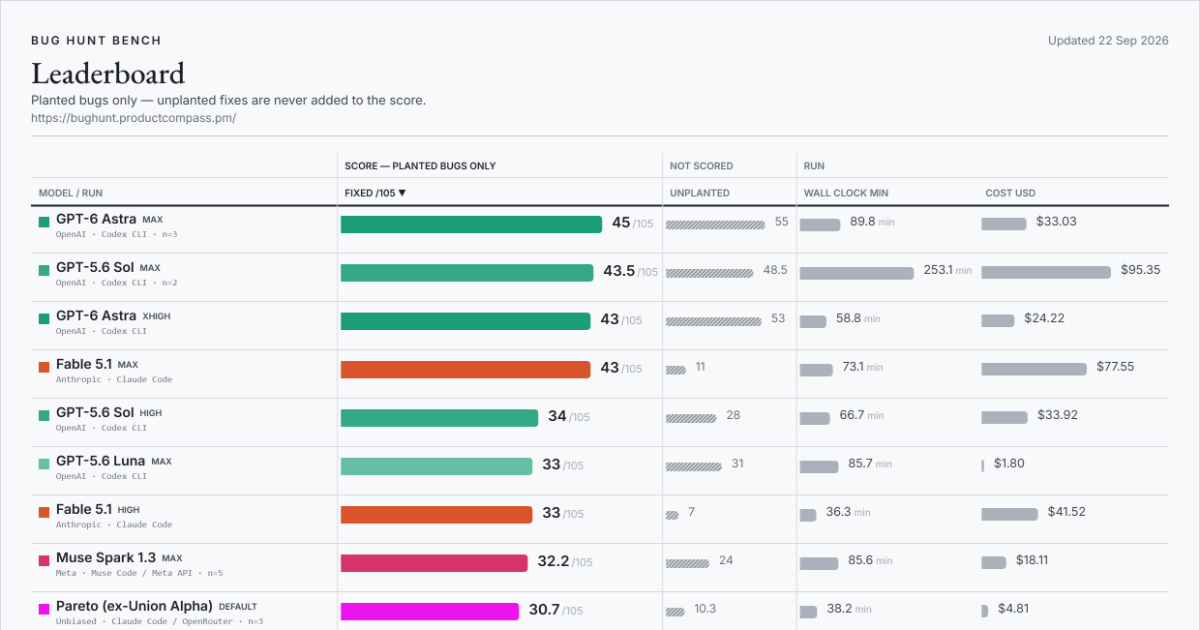
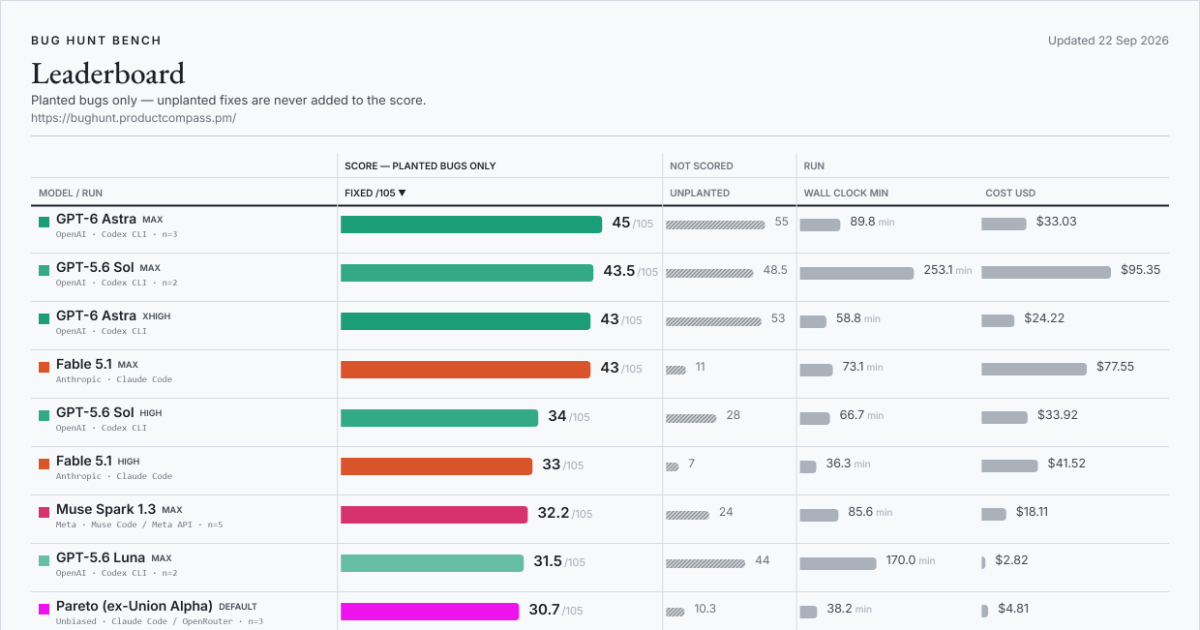
bug hunt bench: GPT-5.6 Luna (max effort) - mean of 2 (31.5/105)

diff --git a/index.html b/index.html
@@ -22,14 +22,14 @@
 <meta property="og:title" content="Bug Hunt Bench — frontier coding models against real planted bugs">
 <meta property="og:description" content="A blind-graded benchmark of frontier coding models on real bugs planted in two production codebases. The score counts planted bugs only; extra fixes are tracked separately and never added.">
 <meta property="og:url" content="https://bughunt.productcompass.pm/">
-<meta property="og:image" content="https://bughunt.productcompass.pm/og-image.png?v=2026-09-22-f903b8d2">
+<meta property="og:image" content="https://bughunt.productcompass.pm/og-image.png?v=2026-09-22-99951fce">
 <meta property="og:image:width" content="1200">
 <meta property="og:image:height" content="630">
 <meta property="og:image:alt" content="Bug Hunt Bench leaderboard">
 <meta name="twitter:card" content="summary_large_image">
 <meta name="twitter:title" content="Bug Hunt Bench — frontier coding models against real planted bugs">
 <meta name="twitter:description" content="A blind-graded benchmark of frontier coding models on real bugs planted in two production codebases. The score counts planted bugs only.">
-<meta name="twitter:image" content="https://bughunt.productcompass.pm/og-image.png?v=2026-09-22-f903b8d2">
+<meta name="twitter:image" content="https://bughunt.productcompass.pm/og-image.png?v=2026-09-22-99951fce">
 <meta name="twitter:creator" content="@PawelHuryn">
 
 <link rel="icon" href="/assets/favicon.svg" type="image/svg+xml">

diff --git a/method.html b/method.html
@@ -20,14 +20,14 @@
 <meta property="og:title" content="Method, caveats and definitions — Bug Hunt Bench">
 <meta property="og:description" content="How Bug Hunt Bench is run and graded, what the board cannot tell you, and what every column on it means.">
 <meta property="og:url" content="https://bughunt.productcompass.pm/method">
-<meta property="og:image" content="https://bughunt.productcompass.pm/og-image.png?v=2026-09-22-f903b8d2">
+<meta property="og:image" content="https://bughunt.productcompass.pm/og-image.png?v=2026-09-22-99951fce">
 <meta property="og:image:width" content="1200">
 <meta property="og:image:height" content="630">
 <meta property="og:image:alt" content="Bug Hunt Bench leaderboard">
 <meta name="twitter:card" content="summary_large_image">
 <meta name="twitter:title" content="Method, caveats and definitions — Bug Hunt Bench">
 <meta name="twitter:description" content="How Bug Hunt Bench is run and graded, what the board cannot tell you, and what every column on it means.">
-<meta name="twitter:image" content="https://bughunt.productcompass.pm/og-image.png?v=2026-09-22-f903b8d2">
+<meta name="twitter:image" content="https://bughunt.productcompass.pm/og-image.png?v=2026-09-22-99951fce">
 <meta name="twitter:creator" content="@PawelHuryn">
 
 <link rel="icon" href="/assets/favicon.svg" type="image/svg+xml">

diff --git a/results/run-notes.md b/results/run-notes.md
@@ -2,7 +2,7 @@
 
 Every row on the board, with the note and caveat it carries. Generated from `data/benchmark.json` by `bench_golive.py` - do not edit by hand.
 
-Updated Sep 22, 2026 · 109 rows from 157 scored runs. Superseded rows are listed last.
+Updated Sep 22, 2026 · 110 rows from 159 scored runs. Superseded rows are listed last.
 
 ## GPT-6 Astra (max effort) - mean of 3
 
@@ -46,10 +46,6 @@ Second only to Sol max (42) on the board; the Sol dial runs high 34 -> xhigh 39 
 
 **34 / 105** · repo 1 13/45 · repo 2 21/60 · 28 unplanted · 66.7 min · $33.92 · `high` · Codex CLI · single run · 2026-07-31
 
-## GPT-5.6 Luna (max effort)
-
-**33 / 105** · repo 1 17/45 · repo 2 16/60 · 31 unplanted · 85.7 min · $1.80 · `max` · Codex CLI · single run · 2026-07-31
-
 ## Fable 5.1
 
 **33 / 105** · repo 1 15/45 · repo 2 18/60 · 7 unplanted · 36.3 min · $41.52 · `high` · Claude Code · single run · 2026-09-01
@@ -67,6 +63,14 @@ THE DEEPEST REPLICATION ON THIS BOARD: FIVE RUNS OF ONE CONFIGURATION. Runs scor
 **32 / 105** · repo 1 16/45 · repo 2 16/60 · 45 unplanted · 159.7 min · $27.98 · `max` · Codex CLI · single run · 2026-08-27
 
 The $2/Mtok mid tier at max: 32/105, just below Luna max (33) and above Grok xhigh / Opus max (27) at a fraction of Sol's cost. 45 genuine unplanted extras, the bug-max signature.
+
+## GPT-5.6 Luna (max effort) - mean of 2
+
+**31.5 / 105** · repo 1 16.5/45 · repo 2 15/60 · 44 unplanted · 170.0 min · $2.82 · `max` · Codex CLI · mean of 2 runs · 2026-09-22
+
+**Caveat.** Two runs of an identical configuration scoring 33 and 30 of 105 - n=2, not the n=3 originally planned, because a third replicate's judging failed on a Grok bridge initialization error unrelated to Luna. Cost is a TOKEN ESTIMATE at list rates, not a bill, and is comparable only to other list-priced rows. Runs shared the laptop with benchmark legs from other vendors, so wall figures are contended and biased upward; scores and cost are unaffected.
+
+GPT-5.6 Luna at max effort through OpenAI's own Codex CLI, published as the MEAN OF TWO INDEPENDENT RUNS. Runs scored 33 and 30 of 105 (repo 1: 17, 16 of 45 - repo 2: 16, 14 of 60). Mean 31.5, spread 3. *** THIS SUPERSEDES A SINGLE RUN THAT WAS THE HIGHEST NUMBER ON THIS BOARD *** The earlier row said 33 of 105 from one draw, and it was FEATURED, which makes it the first number a reader meets. That is the most over-read kind of figure a benchmark can publish: nothing about it was false - it said n=1 on its face - but a top-of-board score from a single draw invites a confidence the sample cannot carry. *** WHY n=2 AND NOT n=3 *** A third replicate (gpt56lunamaxr3) was attempted and its two legs ran clean, but judging it failed identically 3 times per bench (`TimeoutError: ACP request timed out: initialize` in the Grok ACP judge bridge, before any real judging began) - a bridge/initialization problem, not a Luna problem, and not resolved before today's benchmarking window closed. This row is published honestly as n=2 rather than waiting on or faking a third value; r3 may be added as a further replicate later if the judge bridge issue is resolved. *** WALL AND COST *** Walls 85.8, 254.3 minutes, mean 170.1; cost $1.80, $3.85, mean $2.83. COST IS A TOKEN ESTIMATE at OpenAI's published rates, not an invoice - the Codex CLI on a subscription does not expose a per-run bill, so this column is `list` and comparable only to other list rows. *** GENUINE EXTRAS *** 31 and 57 across the two runs, mean 44.0 - real defects found in the repos that are not part of the planted set. Not scored, reported because a model that finds bugs nobody planted is doing something the planted total cannot see. *** THE TIER IS FIRST-PARTY AND THAT IS WHY IT CAN BE ASSERTED *** max is Luna's top tier on OpenAI's own endpoint, which validates and separates its effort levels rather than silently clamping an unknown string the way several third-party routes on this board do. *** THE JUDGE IS NOT THIS BOARD'S DEFAULT, BY RULE *** A model may never judge itself or a sibling, and this is an OpenAI model, so the default Codex judge is disqualified. All four legs were judged by grok-4.5, blinded to the arm's identity. The runs themselves shared the machine with legs from other vendors, which the row's wall marker discloses; scores, tokens and cost are untouched by that - only the clock is. *** RECEIPTS *** All four legs exited 0. Legs SEQUENTIAL within every run.
 
 ## Union Alpha (stealth; free) - mean of 3
 
@@ -495,6 +499,12 @@ THE ZERO SURVIVES REPLICATION. Runs scored 0, 0 and 0 of 105 (repo 1: 0, 0, 0 - 
 **Caveat.** Every figure on this row is a MEAN of three runs, carried to one decimal - 33.7 of 105, not a 34 that happens to be an average. The three runs span 33 to 35. This row SUPERSEDES the single-run max row (33/105) published 2026-09-13, which sat 0.7 below the mean; the supersession is about method, not a correction. The two repo figures are rounded independently and sum to 33.6 rather than 33.7 - the combined figure is the mean of the three TOTALS, which is the one that reconciles with the runs; a tenth of a bug is the cost of a fixed precision and is not hidden. THE THREE RUNS DIFFER IN HARNESS VERSION (1.1.1 for the first, 1.2.1 for the other two), which no other replicated rung on this board does - see the note. With this row Meta's dial is the first on this board measured at n=3 on every rung.
 
 THE TOP RUNG OF META'S DIAL, RUN THREE TIMES - and with it, the FIRST EFFORT DIAL ON THIS BOARD REPLICATED END TO END. Runs scored 33, 33 and 35 of 105 (repo 1: 14, 17, 15 - repo 2: 19, 16, 20). Mean 33.7, range 2. *** THE WHOLE DIAL, ALL FIVE RUNGS AT n=3 *** low 9.7, medium 13.0, high 18.7, xhigh 20.3, max 33.7. Monotone, with no dip and no dead middle. Three-run ranges, in the same order: 9, 6, 3, 9, 2. *** WHAT THAT DOES AND DOES NOT LICENSE *** Two adjacent rungs are distinguishable here only where the step clears the run-to-run range at both ends. max over xhigh is a 13.4-point step against ranges of 9 and 2, and is the one gap on this dial that no amount of run-to-run noise explains away. high over medium (5.7 against ranges of 6 and 3) and xhigh over high (under two points against 3 and 9) are NOT separated by anything this board can measure. What is established is the ORDER of the endpoints and the size of the top step; what is not established is that every rung is a rung. *** THE THREE RUNS ARE NOT HARNESS-IDENTICAL, AND THAT IS A REAL ASTERISK *** Run 1 ran Muse Code 1.1.1 (1.1.1-R2514.1); runs 2 and 3 ran 1.2.1 (1.2.1-R2847.1). Muse Code self-updates and did so between waves. Every other replicated rung on this board held the harness version fixed across all three runs, so this rung's mean carries one source of variation the others do not. It is not a reason to discount the row - 1.1.1 scored 33 and the 1.2.1 pair scored 33 and 35, so the update did not move the number in any direction this sample can see - but a mean is a claim that its members differ only by chance, and here they also differ by a version string. Stated so nobody has to reconstruct it from two CSVs. *** WHAT IS SOLID *** Counts, not inferences. A fixed configuration produced 33, 33 and 35 on this rung - the TIGHTEST spread of any rung on this dial, a range of 2 against 9 at the bottom. Across the three runs this rung ever fixed 45 distinct bugs of 105, well above the 33.7 any single run manages: 25 of those 45 fell in all three runs, 6 in two of them and 14 in exactly one. The gap between 'ever' and 'reliably' is the thing a single run cannot show. All six legs were clean: the Linux install returned 0, the shim logged zero errors, every leg exited 0, and no leg carries a handicap note. Per-leg receipts (repo 1 / repo 2): shim calls 471/557, 467/351, 363/484; wall 102.3, 86.6 and 80.4 minutes; cost 19.83, 19.83 and 17.81 dollars. Genuine extras 16, 25 and 38 - a range of 22 on a count that is not scored and is not meant to be, and a useful reminder of how noisy the unplanted column is at n=1. Claimed-only is 0 on five of the six legs; run 2's repo-2 leg claimed 4 fixes the judge did not confirm. Each leg is a full independent run of both repos; the mean is over three, and the per-repo runs are stated so the spread stays visible - it is the finding, not a caveat on it. THE EFFORT LABEL DESCRIBES THE MAIN LOOP, NOT EVERY CALL THIS ROW IS BILLED FOR: Muse Code runs a reminder-observer side agent at fixed efforts the flag does not control. billing=LIST ESTIMATE, NOT A BILL: a subscription account with no per-run credits delta, costed at the same Meta list rates as the other first-party rows, which is what keeps them comparable. ctx 1M.
+
+## GPT-5.6 Luna (max effort)
+
+**33 / 105** · repo 1 17/45 · repo 2 16/60 · 31 unplanted · 85.7 min · $1.80 · `max` · Codex CLI · single run · 2026-07-31
+
+**Superseded.** Superseded 2026-09-22 by the n=2 row at the same configuration (31.5 of 105). This row was a SINGLE run at 33, and it was featured, so it was the first number most readers met. Two runs of the same configuration scored 33 and 30. Nothing it claimed is retracted; it said n=1 and it was one run. Kept rather than deleted because it is the receipt for what the board showed before this replicate.
 
 ## Muse Spark 1.3 (max effort, Muse Code, Meta API)
 

diff --git a/README.md b/README.md
@@ -9,7 +9,7 @@ If the numbers save you a benchmark run of your own, **star this repo** — that
 <!-- leaderboard:start -->
 ![Bug Hunt Bench leaderboard, the featured runs, updated Sep 22, 2026](assets/leaderboard.png?v=2026-09-22-1406c30e)
 
-**Updated Sep 22, 2026 · 109 rows from 157 scored runs · 34 models · 33 of 105 bugs have never been fixed by any model.**
+**Updated Sep 22, 2026 · 110 rows from 159 scored runs · 34 models · 33 of 105 bugs have never been fixed by any model.**
 
 **Current leader:** GPT-6 Astra at `max` effort — **45 / 105** (22/45 on repo 1, 23/60 on repo 2).
 
@@ -25,10 +25,10 @@ If the numbers save you a benchmark run of your own, **star this repo** — that
 | 6 | GPT-6 Astra | Codex CLI | high | 1 | **35** | 19 | 16 | 40 | 40 min | $20.60 | 2026-09-04 |
 | 7 | GPT-6 Astra | Codex CLI | medium | 1 | **34** | 19 | 15 | 33 | 28 min | $15.78 | 2026-09-05 |
 | 8 | GPT-5.6 Sol | Codex CLI | high | 1 | **34** | 13 | 21 | 28 | 67 min | $33.92 | 2026-07-31 |
-| 9 | GPT-5.6 Luna | Codex CLI | max | 1 | **33** | 17 | 16 | 31 | 86 min | $1.80 | 2026-07-31 |
-| 10 | Fable 5.1 | Claude Code | high | 1 | **33** | 15 | 18 | 7 | 36 min | $41.52 | 2026-09-01 |
-| 11 | Muse Spark 1.3 | Muse Code / Meta API | max | 5 | **32.2** | 14.2 | 18 | 24 | 86 min | $18.11 | 2026-09-17 |
-| 12 | GPT-5.6 Terra | Codex CLI | max | 1 | **32** | 16 | 16 | 45 | 160 min | $27.98 | 2026-08-27 |
+| 9 | Fable 5.1 | Claude Code | high | 1 | **33** | 15 | 18 | 7 | 36 min | $41.52 | 2026-09-01 |
+| 10 | Muse Spark 1.3 | Muse Code / Meta API | max | 5 | **32.2** | 14.2 | 18 | 24 | 86 min | $18.11 | 2026-09-17 |
+| 11 | GPT-5.6 Terra | Codex CLI | max | 1 | **32** | 16 | 16 | 45 | 160 min | $27.98 | 2026-08-27 |
+| 12 | GPT-5.6 Luna | Codex CLI | max | 2 | **31.5** | 16.5 | 15 | 44 | 170 min | $2.82 | 2026-09-22 |
 | 13 | Pareto (ex-Union Alpha) | Claude Code / OpenRouter | default | 3 | **30.7** | 16 | 14.7 | 10.3 | 38 min | $4.81 | 2026-09-17 |
 | 14 | GPT-5.6 Sol | Codex CLI | medium | 1 | **29** | 13 | 16 | 24 | 48 min | $15.77 | 2026-09-06 |
 | 15 | Fable 5.1 | Claude Code | low | 1 | **29** | 13 | 16 | 6 | 33 min | $27.27 | 2026-09-02 |
@@ -98,7 +98,7 @@ If the numbers save you a benchmark run of your own, **star this repo** — that
 Extras are real, unplanted defects a model fixed on the way; they are counted and never added to the score. Costs are token estimates at published list rates unless tagged **bill** (an actual invoice or credits delta) or **floor** (a reconstructed lower bound). `default` effort means the serving path had no working effort dial; *ran lower* marks a run whose CLI quietly replaced the requested tier. Wall clock is repo 1 plus repo 2 agent time, dependency install excluded.
 Every row's full note, caveat and supersession history is in [results/run-notes.md](https://github.com/phuryn/bug-hunt-bench/blob/main/results/run-notes.md); the runs behind each one are in the metrics CSVs.
 
-34 superseded re-runs stay in the CSVs and on the [live board](https://bughunt.productcompass.pm/?preset=all) but are left off this table.
+35 superseded re-runs stay in the CSVs and on the [live board](https://bughunt.productcompass.pm/?preset=all) but are left off this table.
 <!-- leaderboard:end -->
 
 ## What Bug Hunt Bench is
